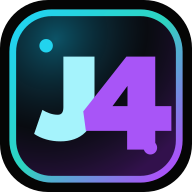
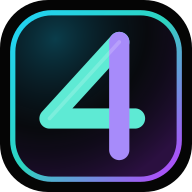
feat: criar identidade visual JE4NDEV

diff --git a/src/components/brand/brand-logo.tsx b/src/components/brand/brand-logo.tsx
@@ -1,0 +1,55 @@
+interface BrandLogoProps {
+  className?: string;
+  size?: "sm" | "md";
+}
+
+const sizeClasses = {
+  sm: {
+    root: "text-[13px]",
+    glyph: "h-[17px] w-[13px]",
+  },
+  md: {
+    root: "text-[17px]",
+    glyph: "h-[22px] w-[16px]",
+  },
+};
+
+/**
+ * JE4NDEV wordmark.
+ *
+ * The custom 4 is the brand's A replacement. The wordmark stays complete in
+ * every navigation context so the identity is always read as JE4NDEV.
+ */
+export function BrandLogo({ className = "", size = "md" }: BrandLogoProps) {
+  const classes = sizeClasses[size];
+
+  return (
+    <span
+      aria-hidden="true"
+      className={`inline-flex items-center font-sans font-black uppercase leading-none tracking-[0.08em] text-white ${classes.root} ${className}`}
+    >
+      <span>JE</span>
+      <svg
+        viewBox="0 0 18 24"
+        fill="none"
+        className={`mx-[0.08em] shrink-0 overflow-visible ${classes.glyph}`}
+      >
+        <path
+          d="M13.5 2.5 3 14h12.5"
+          stroke="#5EEAD4"
+          strokeWidth="3.2"
+          strokeLinecap="round"
+          strokeLinejoin="round"
+        />
+        <path
+          d="M13.5 2.5v19"
+          stroke="#A78BFA"
+          strokeWidth="3.2"
+          strokeLinecap="round"
+        />
+      </svg>
+      <span>N</span>
+      <span className="ml-[0.12em] text-purple-400">DEV</span>
+    </span>
+  );
+}

diff --git a/src/components/layout/navbar.tsx b/src/components/layout/navbar.tsx
@@ -4,7 +4,7 @@ import { useState, useEffect, useCallback } from "react";
 import { motion, AnimatePresence } from "framer-motion";
 import Link from "next/link";
 import { usePathname } from "next/navigation";
-import { BrandMark } from "@/components/brand/brand-mark";
+import { BrandLogo } from "@/components/brand/brand-logo";
 import { useTranslation } from "@/i18n";
 
 const navLinks = [
@@ -64,14 +64,11 @@ export function Navbar() {
         <div className="mx-auto max-w-7xl flex items-center justify-between px-6 py-4">
           <Link
             href={localeRoot}
-            className="group flex items-center gap-3 text-lg font-extrabold tracking-normal"
+            className="group flex min-h-11 items-center"
             onClick={closeMobile}
             aria-label="JE4NDEV"
           >
-            <BrandMark className="transition-transform duration-300 group-hover:scale-105" />
-            <span>
-              je4n<span className="text-purple-500">dev</span>
-            </span>
+            <BrandLogo className="transition-[filter,letter-spacing] duration-300 group-hover:tracking-[0.11em] group-hover:drop-shadow-[0_0_12px_rgba(94,234,212,0.24)]" />
           </Link>
 
           {/* Desktop nav */}

diff --git a/src/components/layout/footer.tsx b/src/components/layout/footer.tsx
@@ -2,6 +2,7 @@
 
 import { useTranslation } from "@/i18n";
 import { Github, Linkedin } from "lucide-react";
+import { BrandLogo } from "@/components/brand/brand-logo";
 
 export function Footer() {
   const { t } = useTranslation();
@@ -16,6 +17,7 @@ export function Footer() {
     <footer className="border-t border-white/5 bg-[#050505]">
       <div className="mx-auto flex max-w-7xl flex-col items-center gap-4 px-6 py-8 sm:flex-row sm:justify-between">
         <div className="flex flex-col items-center sm:items-start gap-1">
+          <BrandLogo size="sm" className="mb-2 opacity-80" />
           <p className="text-sm text-zinc-600">{t.footer.copyright}</p>
           <p className="text-xs text-zinc-700">Built with Next.js & Tailwind CSS</p>
         </div>

diff --git a/src/proxy.ts b/src/proxy.ts
@@ -48,6 +48,6 @@ function isSupported(value: string | undefined | null): value is Locale {
 
 export const config = {
   matcher: [
-    "/((?!api|_next|robots\\.txt|sitemap\\.xml|favicon\\.ico|favicon-16x16\\.png|favicon-32x32\\.png|apple-touch-icon\\.png|brand-icon\\.svg|og-image\\.png|site\\.webmanifest|icon\\.svg|images|projects|videos|brand|portfolio-refresh).*)",
+    "/((?!api|_next|robots\\.txt|sitemap\\.xml|favicon\\.ico|favicon-16x16\\.png|favicon-32x32\\.png|apple-touch-icon\\.png|brand-icon\\.svg|je4ndev-logo\\.svg|og-image\\.png|site\\.webmanifest|icon\\.svg|images|projects|videos|brand|portfolio-refresh).*)",
   ],
 };

diff --git a/public/portfolio-refresh/colors_and_type.css b/public/portfolio-refresh/colors_and_type.css
@@ -61,7 +61,7 @@
   --ring-3: rgba(255, 255, 255, 0.10);  /* badge */
   --ring-4: rgba(255, 255, 255, 0.12);  /* button outline */
   --ring-5: rgba(255, 255, 255, 0.16);  /* hover */
-  --ring-cyan: rgba(103, 232, 249, 0.25); /* brand mark ring */
+  --ring-cyan: rgba(103, 232, 249, 0.25); /* brand accent ring */
   --ring-violet: rgba(168, 85, 247, 0.50);
 
   /* ---------- 7. Radii --------------------------------------------- */

diff --git a/src/styles/design-tokens.css b/src/styles/design-tokens.css
@@ -61,7 +61,7 @@
   --ring-3: rgba(255, 255, 255, 0.10);  /* badge */
   --ring-4: rgba(255, 255, 255, 0.12);  /* button outline */
   --ring-5: rgba(255, 255, 255, 0.16);  /* hover */
-  --ring-cyan: rgba(103, 232, 249, 0.25); /* brand mark ring */
+  --ring-cyan: rgba(103, 232, 249, 0.25); /* brand accent ring */
   --ring-violet: rgba(168, 85, 247, 0.50);
 
   /* ---------- 7. Radii --------------------------------------------- */

diff --git a/docs/CLAUDE-DESIGN-INTEGRATION.md b/docs/CLAUDE-DESIGN-INTEGRATION.md
@@ -51,7 +51,7 @@ Reading `src/components/sections/*` and `src/i18n/translations/*` in the repo wi
 ├── SKILL.md                   ← agent skill manifest (use with Claude Code)
 ├── colors_and_type.css        ← all tokens — colors, type, radii, shadows
 ├── assets/                    ← logos, hero photo, project screenshots
-│   ├── brand-icon.svg            J4 mark with cyan→violet gradient
+│   ├── brand-icon.svg            Custom 4 mark with cyan→violet gradient
 │   ├── apple-touch-icon.png      180×180 brand icon (raster)
 │   ├── android-chrome-512x512.png
 │   ├── favicon-32x32.png
@@ -76,7 +76,7 @@ Reading `src/components/sections/*` and `src/i18n/translations/*` in the repo wi
         ├── TechStack.jsx         6 categories
         ├── Contact.jsx           gradient orb + CTAs
         ├── Footer.jsx            three-column compact footer
-        └── primitives.jsx        BrandMark, MagneticButton, TiltCard,
+        └── primitives.jsx        BrandLogo, MagneticButton, TiltCard,
                                   CodeTerminal, SectionReveal, StatusBadge
 ```
 
@@ -146,7 +146,7 @@ Reading `src/components/sections/*` and `src/i18n/translations/*` in the repo wi
 ### Color usage rules
 - **`#050505` base + `#ededed` foreground** is the resting state.
 - **Accents are functional, not decorative.**
-  - **Cyan `#5EEAD4`** = terminal output, hover lift on featured project cards, brand mark "J".
+  - **Cyan `#5EEAD4`** = terminal output, hover lift on featured project cards, custom 4 diagonal.
   - **Violet `#8B5CF6`** = eyebrow labels, service icon backgrounds, ::selection.
   - **Emerald `#10B981`** = `$` prompt, `live` status, strengths checkmarks.
   - **Magenta / pink `#EC4899`** = single-instance accents (pricing metric, contact title gradient).
@@ -158,7 +158,7 @@ Reading `src/components/sections/*` and `src/i18n/translations/*` in the repo wi
 - **Geist** (sans, all weights 300–900) and **Geist Mono** (mono).
 - **Geist Sans Extrabold (800)** for the display h1.
 - **Geist Sans Bold (700)** for h2 / h3.
-- **Geist Mono** for: terminal lines, project slugs, the `J4` brand mark glyph, the `0X` index numbers in the mobile menu, the language toggle (`EN | PT`).
+- **Geist Mono** for: terminal lines, project slugs, the `0X` index numbers in the mobile menu, and the language toggle (`EN | PT`).
 - Tracking is **near-neutral**. The display h1 uses `tracking-normal`, not tight or wide.
 - Section headers always pair: **eyebrow (purple, uppercase, tracked)** above **h2 (white, sentence case, bold)**.
 
@@ -172,7 +172,7 @@ Reading `src/components/sections/*` and `src/i18n/translations/*` in the repo wi
 ### Borders
 - Every interactive surface has a **single-pixel white ring at low alpha**: `border-white/[0.06]` resting, `border-white/[0.1]` for slightly elevated, `border-white/[0.16]` on hover.
 - No double borders. No dashed. No colored borders **except** status pills (10–25% alpha of the status color).
-- Brand mark uses a `border-cyan-300/25` — the only ringed accent.
+- Brand icon uses a `border-cyan-300/25` — the only ringed accent.
 
 ### Corner radii
 - **`16px` minimum** for any card or button container — this is a hard brand rule.
@@ -187,7 +187,7 @@ Reading `src/components/sections/*` and `src/i18n/translations/*` in the repo wi
 - Two exceptions:
   - Project cards: `shadow-[0_22px_80px_-55px_rgba(255,255,255,0.35)]` — a **white halo bloom downward** that reads as "lifted off black" rather than "casting a shadow on white".
   - Hero photo card: `shadow-2xl shadow-black/40` — a deep black absorption shadow.
-- Brand mark: `shadow-[0_0_28px_-14px_rgba(34,211,238,0.9)]` — a **cyan glow** (the only colored glow in the system).
+- Brand icon: `shadow-[0_0_28px_-14px_rgba(34,211,238,0.9)]` — a **cyan glow** (the only colored glow in the system).
 
 ### Transparency & blur
 - **Backdrop-blur is reserved for chrome.** Navbar (`backdrop-blur-xl`), mobile menu overlay (`backdrop-blur-sm`), and a soft `backdrop-blur-[2px]` on the gradient strip over the hero photo.
@@ -260,9 +260,10 @@ artwork:    aspect-[16/9] with project gradient + image + bottom black fade
 ### Status / live dot
 - A **pulsing green dot** built from two stacked spans (`animate-ping` outer + solid `bg-green-500` inner). Used in: hero status badge, project `live` pill. Never replaced with an emoji.
 
-### Logo / brand mark
-- `assets/brand-icon.svg` — a 512×512 rounded square with cyan→violet conic stops, two corner accent dots (cyan top-left, violet bottom-right), and "J4" in cyan-200 / violet-400.
-- Inline runtime version (`BrandMark.tsx`) re-implements this at 36px so it's crisp at icon size. **Use the SVG asset for any size 64px+; use the inline JSX recreation at smaller sizes.**
+### Logo / brand identity
+- `public/je4ndev-logo.svg` — the complete JE4NDEV wordmark. The custom 4 replaces the A and is the only compact symbol derived from the name.
+- `public/brand-icon.svg` — a 512×512 rounded square using the same custom 4 for favicons and app shortcuts.
+- The runtime `BrandLogo` renders the complete wordmark in navigation and footer. Never abbreviate the brand in customer-facing UI.
 
 ### Emoji & unicode
 - **Emoji: never used in UI.** Some MD docs include shield badges (`shields.io`) and `&middot;` separators.
@@ -276,4 +277,4 @@ artwork:    aspect-[16/9] with project gradient + image + bottom black fade
 2. **Open `ui_kits/portfolio/index.html`** — it's a working interactive prototype with every primitive in context.
 3. **Copy assets out of `assets/`** for any composition. Never re-draw the logo, never AI-generate Jean.
 4. **For a paid-traffic landing page**: lift Hero + a slimmer Projects grid (3 max) + Services + Contact. Add tracking IDs (Meta Pixel, GA4, UTMs) outside the visual system.
-5. **For an ad creative**: brand mark top-left, h-display headline, terminal motif, real product screenshot framed in a `rounded-2xl` card. No decorative AI imagery.
+5. **For an ad creative**: complete JE4NDEV wordmark top-left, h-display headline, terminal motif, real product screenshot framed in a `rounded-2xl` card. No decorative AI imagery.

diff --git a/README.md b/README.md
@@ -2,6 +2,8 @@
 
 <div align="center">
 
+<img src="public/je4ndev-logo.svg" alt="JE4NDEV" width="280" />
+
 <img src="docs/screenshots/readme/home-desktop.png" alt="JE4NDEV — portfólio de sites, sistemas e SaaS" width="100%" />
 
 # JE4NDEV Portfolio
